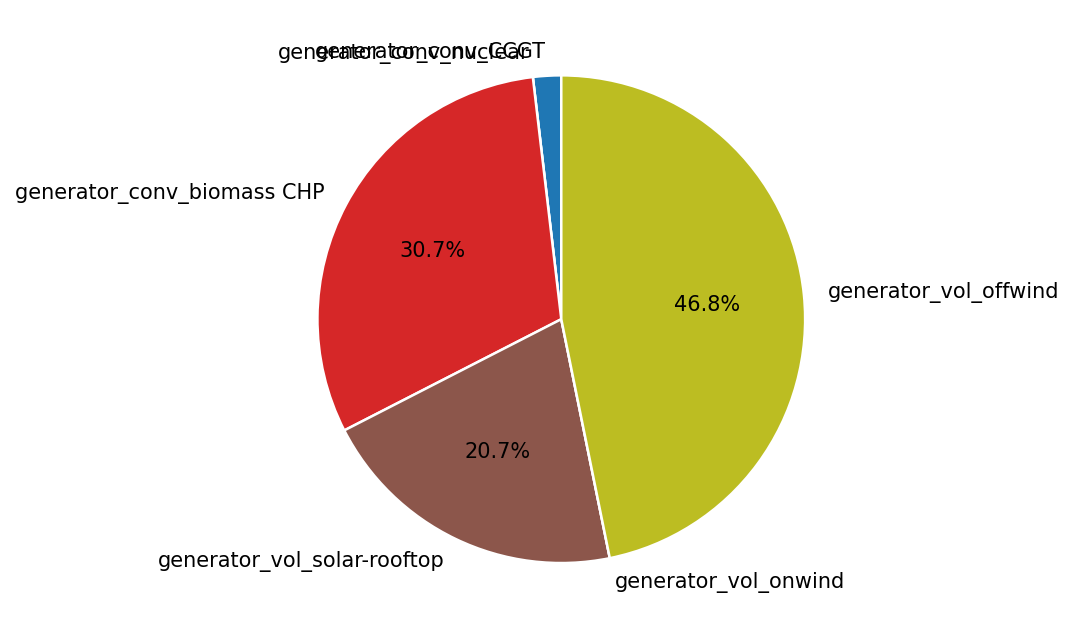
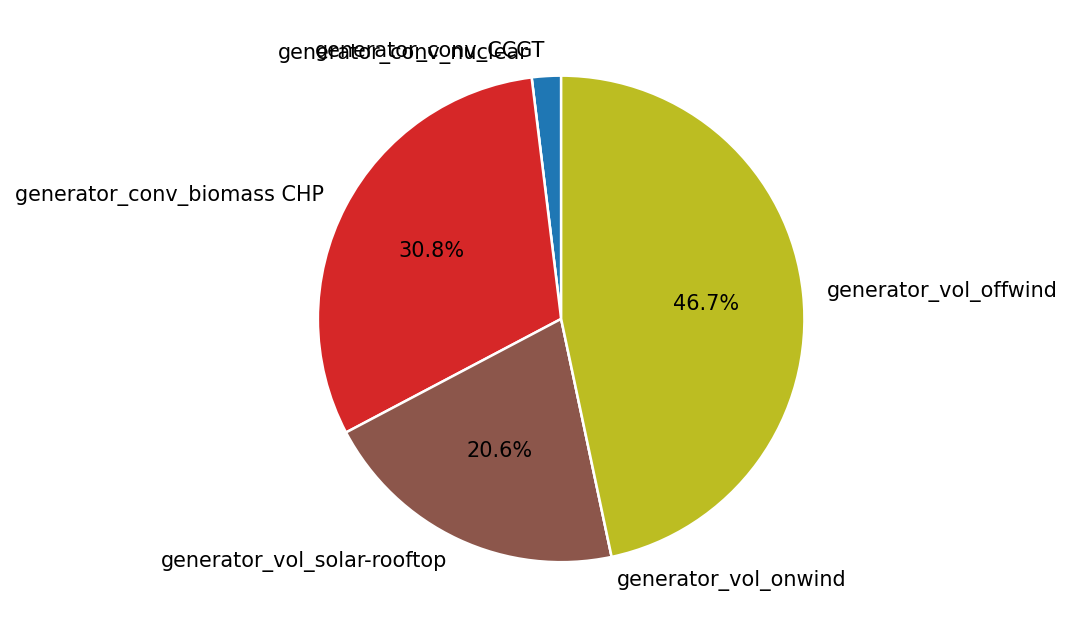
fixed storage and unit issues, added fom costs, working scenario A-C

diff --git a/src/networkbuilder.py b/src/networkbuilder.py
@@ -49,13 +49,15 @@ class NetworkBuilder:
                     bus=f"bus_{country}",
                     p_nom_extendable=True,
                     marginal_cost=self.input_data.technology_costs[tech]["vom"],
-                    capital_cost=self.input_data.technology_costs[tech]["inv"],
+                    lifetime=self.input_data.technology_costs[tech]['lifetime'],
+                    capital_cost=self.input_data.technology_costs[tech]["inv"]+self.input_data.technology_costs[tech]["inv"]*(self.input_data.technology_costs[tech]["fom"]/100),
                 )
 
     def _add_volatile_generators(self, countries, year):
         for country in countries:
             for tech in self.config["technologies_vol"]:
                 cf = self.input_data.cf[(country, year)]
+                cf = cf.reindex(self.network.snapshots)
                 self.network.add(
                     "Generator",
                     bus=f"bus_{country}",
@@ -63,7 +65,7 @@ class NetworkBuilder:
                     p_nom_extendable=True,
                     p_max_pu=cf[tech],
                     marginal_cost=self.input_data.technology_costs[tech]["vom"],
-                    capital_cost=self.input_data.technology_costs[tech]["inv"],
+                    capital_cost=self.input_data.technology_costs[tech]["inv"]+self.input_data.technology_costs[tech]["inv"]*(self.input_data.technology_costs[tech]["fom"]/100),
                 )
 
     def _add_storage(self, countries):  # needs some common data for efficiency and standing losses
@@ -74,9 +76,9 @@ class NetworkBuilder:
                     bus=f"bus_{country}",
                     name=f"generator_storage_{tech}",
                     p_nom_extendable=True,
-                    marginal_cost=0,
+                    marginal_cost=0.001,
                     marginal_cost_storage=0,
-                    capital_cost=self.input_data.technology_costs[tech]["inv"],
+                    capital_cost=self.input_data.technology_costs[tech]["inv"]+self.input_data.technology_costs[tech]["inv"]*(self.input_data.technology_costs[tech]["fom"]/100),
                     efficiency_store=self.input_data.technology_costs[tech]["efficiency"],
                     efficiency_dispatch=self.input_data.technology_costs[tech]["efficiency"],
                     standing_loss=0,

diff --git a/src/input.py b/src/input.py
@@ -29,12 +29,23 @@ class InputHandler():
 
 
     def _get_technology_costs(self, technology: str):
-        return {
-            "inv": self._get_cost(self.technology_costs_all, technology, "investment"),
+        if technology=='Pumped-Storage-Hydro-bicharger':
+            return {
+            "inv": self._get_cost(self.technology_costs_all, technology, "investment")/1000,
             "fom": self._get_cost(self.technology_costs_all, technology, "FOM"),
             "vom": self._get_cost(self.technology_costs_all, technology, "VOM"),
             "efficiency": self._get_cost(self.technology_costs_all, technology, "efficiency"),
+            'lifetime':self._get_cost(self.technology_costs_all, technology, "lifetime")
         }
+        else:
+            return {
+                "inv": self._get_cost(self.technology_costs_all, technology, "investment"), #inputdata i inconsistent in units
+                "fom": self._get_cost(self.technology_costs_all, technology, "FOM"),
+                "vom": self._get_cost(self.technology_costs_all, technology, "VOM"),
+                "efficiency": self._get_cost(self.technology_costs_all, technology, "efficiency"),
+                'lifetime':self._get_cost(self.technology_costs_all, technology, "lifetime")
+            }
+        
 
     def _get_load(self, country:str, start: pd.Timestamp, end:pd.Timestamp) -> pd.DataFrame: 
         return self.client.query_load(country, start=start, end=end)

diff --git a/main.py b/main.py
@@ -54,9 +54,9 @@ visualizer_a.plot_dispatch_time_series(pd.Timestamp("2023-07-01"), pd.Timestamp(
 visualizer_a.plot_annual_electricity_mix()
 
 ###Task b
-input_data_b = InputHandler(CONFIG_B)
-scenario_b = Scenario(CONFIG_B, input_data_b)
-network_BE_SA = scenario_b.run_multiple_years()
+# input_data_b = InputHandler(CONFIG_B)
+# scenario_b = Scenario(CONFIG_B, input_data_b)
+# network_BE_SA = scenario_b.run_multiple_years()
 
 ###Task c
 input_data_c = InputHandler(CONFIG_C)
